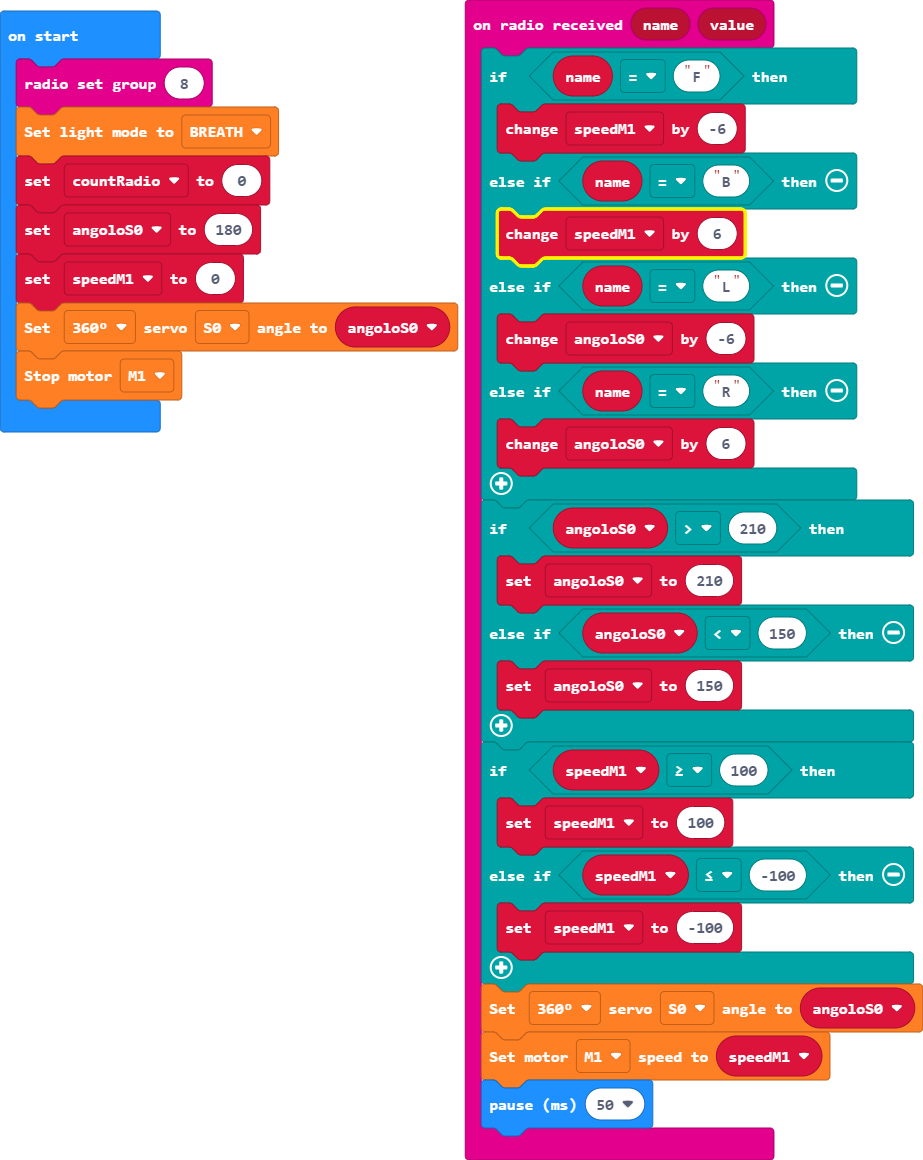
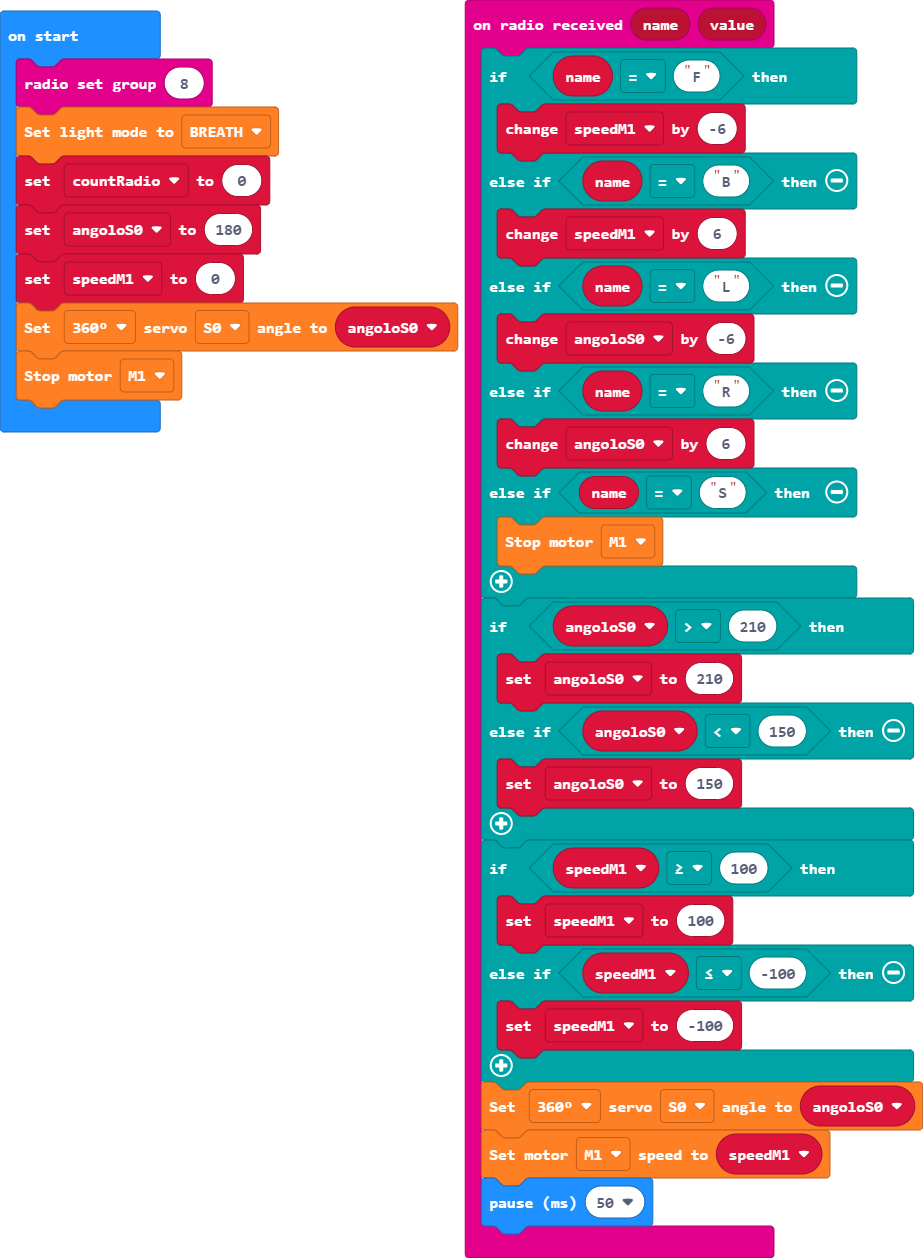
Update main.blocks, main.ts

Changed region(s): [[0.0, 0.0, 1.0, 0.9931]]

diff --git a/main.ts b/main.ts
@@ -7,6 +7,8 @@ radio.onReceivedValue(function (name, value) {
         angoloS0 += -6
     } else if (name == "R") {
         angoloS0 += 6
+    } else if (name == "S") {
+        wuKong.stopMotor(wuKong.MotorList.M1)
     }
     if (angoloS0 > 210) {
         angoloS0 = 210
